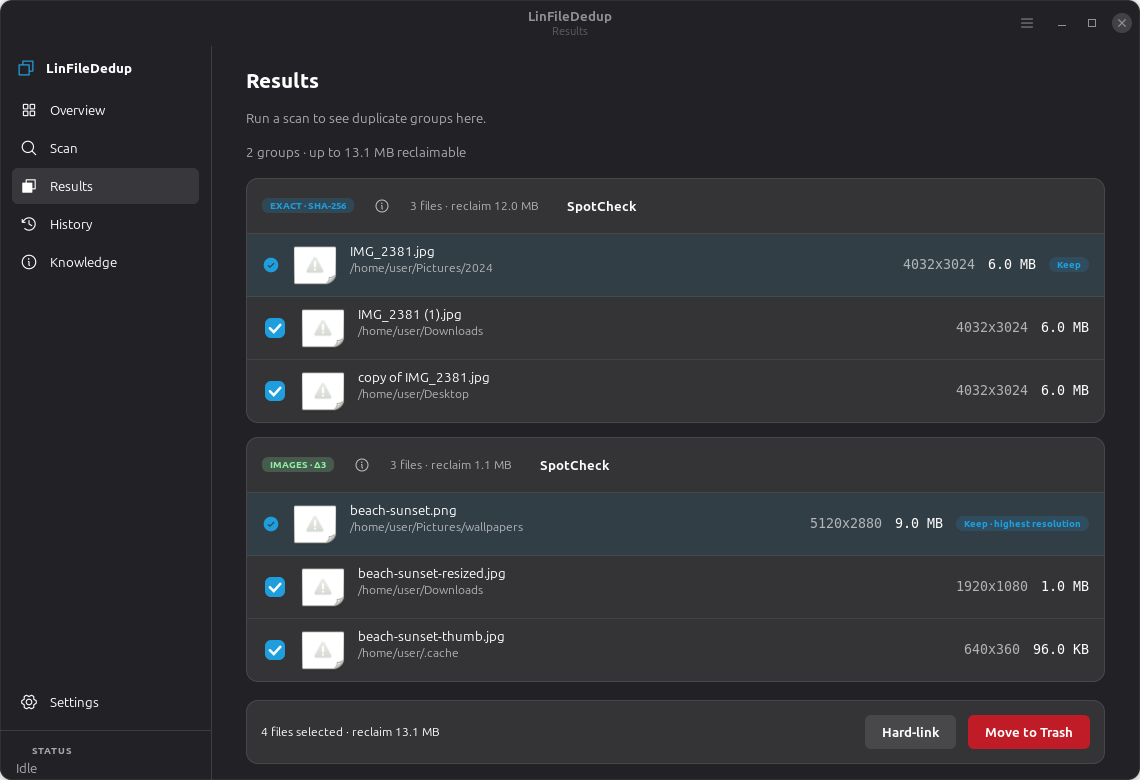
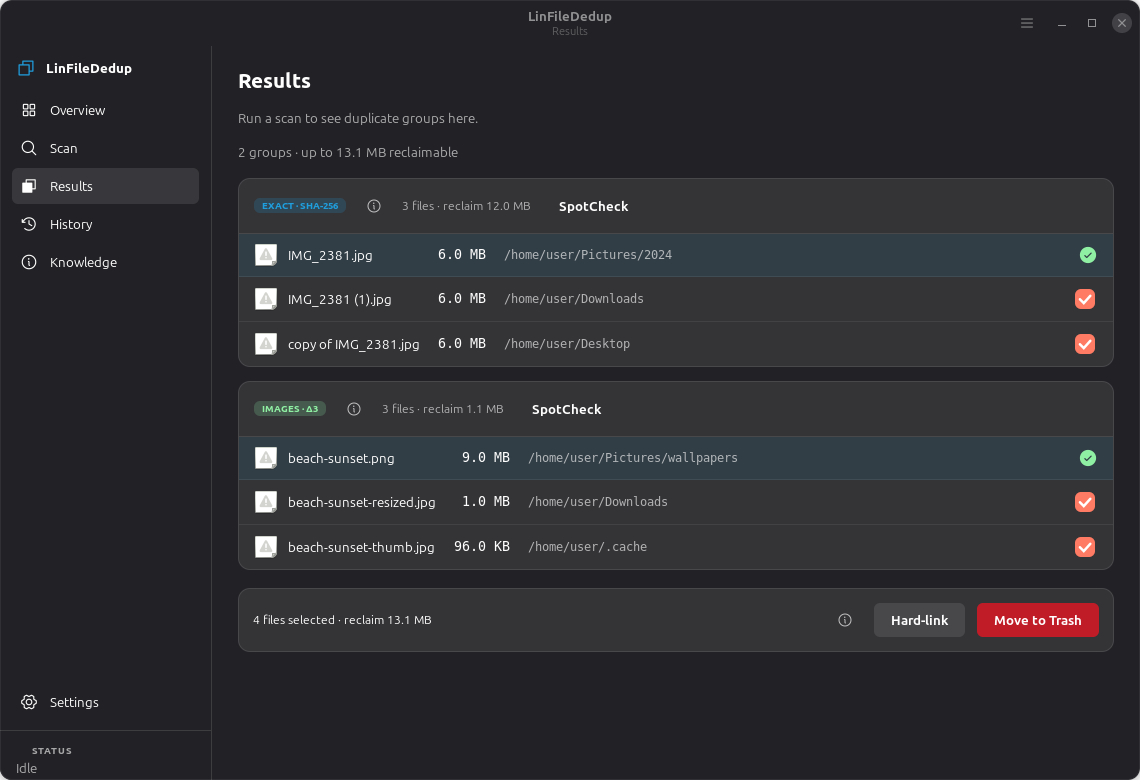
Results: aligned spreadsheet rows (name | size | path | selector)
Rebuild each duplicate group's file list as aligned columns using SizeGroups so
names, sizes and paths line up across rows for easy path comparison. The path
column fills remaining width and truncates with a trailing ellipsis (full path in
the tooltip). The kept file shows a green check-circle; removal candidates show a
red checked box. Results now fills the window (no clamp) for more room, and an
info icon next to Hard-link explains what a hard link is. Refreshed screenshots.

diff --git a/data/css/app.css b/data/css/app.css
@@ -64,6 +64,10 @@
 .app-info-hint { min-width: 22px; min-height: 22px; padding: 0; opacity: 0.7; }
 .app-info-hint:hover { opacity: 1; }
 
+/* results selection markers */
+.app-del-check check:checked { background-color: @error_color; border-color: @error_color; color: #ffffff; }
+.app-keep-check { color: @success_color; }
+
 /* badges */
 .app-kind-exact, .app-kind-image, .app-keepbadge {
   font-size: 0.72em; font-weight: 800; border-radius: 6px; padding: 2px 8px;

diff --git a/src/linfilededuplication/ui/pages/results.py b/src/linfilededuplication/ui/pages/results.py
@@ -15,6 +15,7 @@ from linfilededuplication.ui.widgets.info_hint import InfoHint
 class ResultsPage(BasePage):
     page_id = "results"
     title = _("Results")
+    clamp_max = 0           # fill the window for the spreadsheet-like file list
 
     def build_content(self) -> None:
         self._groups: list[dict] = []       # {group, keeper, checks:[(CheckButton, FileEntry)], widget}
@@ -40,6 +41,7 @@ class ResultsPage(BasePage):
         self.btn_trash.connect("clicked", self._trash_selected)
         self.btn_link.connect("clicked", self._link_selected)
         bar.append(self.sel_label)
+        bar.append(InfoHint(self.window, "hard-link"))
         bar.append(self.btn_link)
         bar.append(self.btn_trash)
         self.action_bar = bar
@@ -112,64 +114,75 @@ class ResultsPage(BasePage):
         header.append(spot)
         card.append(header)
 
+        # size groups align the Name and Size columns across rows (spreadsheet style)
+        name_sg = Gtk.SizeGroup(mode=Gtk.SizeGroupMode.HORIZONTAL)
+        size_sg = Gtk.SizeGroup(mode=Gtk.SizeGroupMode.HORIZONTAL)
         for f in group.files:
-            card.append(self._file_row(f, group, record))
+            card.append(self._file_row(f, group, record, name_sg, size_sg))
         return card
 
-    def _file_row(self, f: FileEntry, group: DuplicateGroup, record: dict) -> Gtk.Box:
-        row = Gtk.Box(spacing=13)
+    def _file_row(self, f: FileEntry, group: DuplicateGroup, record: dict,
+                  name_sg: Gtk.SizeGroup, size_sg: Gtk.SizeGroup) -> Gtk.Box:
+        row = Gtk.Box(spacing=18)
         row.add_css_class("app-file-row")
         if f.keeper:
             row.add_css_class("app-keep")
-            marker = icon("app-status-success-symbolic", 18)
-            marker.add_css_class("app-accent")
-            row.append(marker)
-        else:
-            check = Gtk.CheckButton()
-            check.set_active(True)
-            check.connect("toggled", lambda _c: self._refresh_selection())
-            record["checks"].append((check, f))
-            row.append(check)
 
-        row.append(self._thumb(f))
-
-        meta = Gtk.Box(orientation=Gtk.Orientation.VERTICAL, spacing=1, hexpand=True)
+        # column 1: type icon + name (aligned across rows)
+        namecell = Gtk.Box(spacing=10)
+        namecell.append(self._thumb(f))
         name = Gtk.Label(label=f.name, xalign=0.0)
-        name.set_ellipsize(3)
-        path = Gtk.Label(label=f.parent, xalign=0.0)
+        name.set_ellipsize(3)                # PANGO_ELLIPSIZE_END
+        name.set_max_width_chars(46)
+        namecell.append(name)
+        if f.is_backup:
+            namecell.append(badge(_("Newest") if f.is_newest else _("Older"), "app-keepbadge"))
+        name_sg.add_widget(namecell)
+        row.append(namecell)
+
+        # column 2: size (right-aligned numbers)
+        size = Gtk.Label(label=human_bytes(f.size), xalign=1.0)
+        size.add_css_class("app-mono")
+        size_sg.add_widget(size)
+        row.append(size)
+
+        # column 3: path (fills remaining width, truncates with a trailing ellipsis)
+        path = Gtk.Label(label=f.parent, xalign=0.0, hexpand=True)
+        path.add_css_class("app-mono")
         path.add_css_class("app-dim")
         path.add_css_class("app-small")
         path.set_ellipsize(3)
-        meta.append(name)
-        meta.append(path)
-        row.append(meta)
+        path.set_tooltip_text(f.path)
+        row.append(path)
 
-        if f.resolution:
-            dim = Gtk.Label(label=f.resolution)
-            dim.add_css_class("app-dim")
-            dim.add_css_class("app-mono")
-            row.append(dim)
-        size = Gtk.Label(label=human_bytes(f.size))
-        size.add_css_class("app-mono")
-        row.append(size)
-        if f.is_backup:
-            row.append(badge(_("Newest") if f.is_newest else _("Older"), "app-keepbadge"))
+        # column 4: keep (green circle) or remove (red check)
         if f.keeper:
-            kb = badge(_("Keep · highest resolution") if group.kind == KIND_IMAGE else _("Keep"),
-                       "app-keepbadge")
-            row.append(kb)
+            keep = icon("app-status-success-symbolic", 20)
+            keep.add_css_class("app-keep-check")
+            keep.set_tooltip_text(_("Kept"))
+            keep.set_valign(Gtk.Align.CENTER)
+            row.append(keep)
+        else:
+            check = Gtk.CheckButton()
+            check.add_css_class("app-del-check")
+            check.set_active(True)
+            check.set_valign(Gtk.Align.CENTER)
+            check.set_tooltip_text(_("Marked for removal"))
+            check.connect("toggled", lambda _c: self._refresh_selection())
+            record["checks"].append((check, f))
+            row.append(check)
         return row
 
     def _thumb(self, f: FileEntry) -> Gtk.Widget:
         if f.is_image:
             try:
                 img = Gtk.Image.new_from_file(f.path)
-                img.set_pixel_size(44)
+                img.set_pixel_size(24)
                 img.add_css_class("app-thumb")
                 return img
             except Exception:
                 pass
-        img = icon("app-stat-items-symbolic", 22)
+        img = icon("app-stat-items-symbolic", 20)
         img.add_css_class("app-dim")
         return img
 

diff --git a/src/linfilededuplication/ui/pages/base.py b/src/linfilededuplication/ui/pages/base.py
@@ -7,6 +7,7 @@ from gi.repository import Gtk
 class BasePage(Gtk.ScrolledWindow):
     page_id = ""
     title = ""
+    clamp_max = 1100        # content max width; 0 = fill the window (no clamp)
 
     def __init__(self, window) -> None:
         super().__init__(hexpand=True, vexpand=True)
@@ -22,9 +23,11 @@ class BasePage(Gtk.ScrolledWindow):
 
     def _wrap(self, child):
         """Keep content to a comfortable width on wide windows (Adw.Clamp)."""
+        if not self.clamp_max:
+            return child                    # fill the window (e.g. the spreadsheet-like Results)
         try:
             from gi.repository import Adw
-            clamp = Adw.Clamp(maximum_size=1100, tightening_threshold=800)
+            clamp = Adw.Clamp(maximum_size=self.clamp_max, tightening_threshold=800)
             clamp.set_child(child)
             return clamp
         except Exception:

diff --git a/changelog.md b/changelog.md
@@ -22,3 +22,4 @@ Append-only. Format: `| ISO-8601 datetime | description |`.
 | 2026-09-29 | Renamed visible app to LinFileDedup (uniform with the lin-* series); fixed install.sh nesting src on reinstall; re-captured screenshots. |
 | 2026-09-29 | Scanning indicator: a live radar-sweep header widget (`ui/widgets/scan_spinner.py`, Cairo, accent-coloured, theme-aware) shown while a scan runs, kept visible ≥ `SCAN_MIN_SECONDS` (1.6s) even on sub-second scans. |
 | 2026-09-29 | SpotCheck previews now expand to fill the modal: panels are equal-width and fill the width, preview areas grow to fill height (min 200px) and scroll; preview content raised to 200 lines / 6000 chars. |
+| 2026-09-29 | Results rows redesigned as an aligned spreadsheet layout (Name | Size | Path | selector) via size groups; path column fills width and ellipsizes; keeper shows a green check-circle, candidates a red checked box; Results fills the window; info icon added next to Hard-link. |
